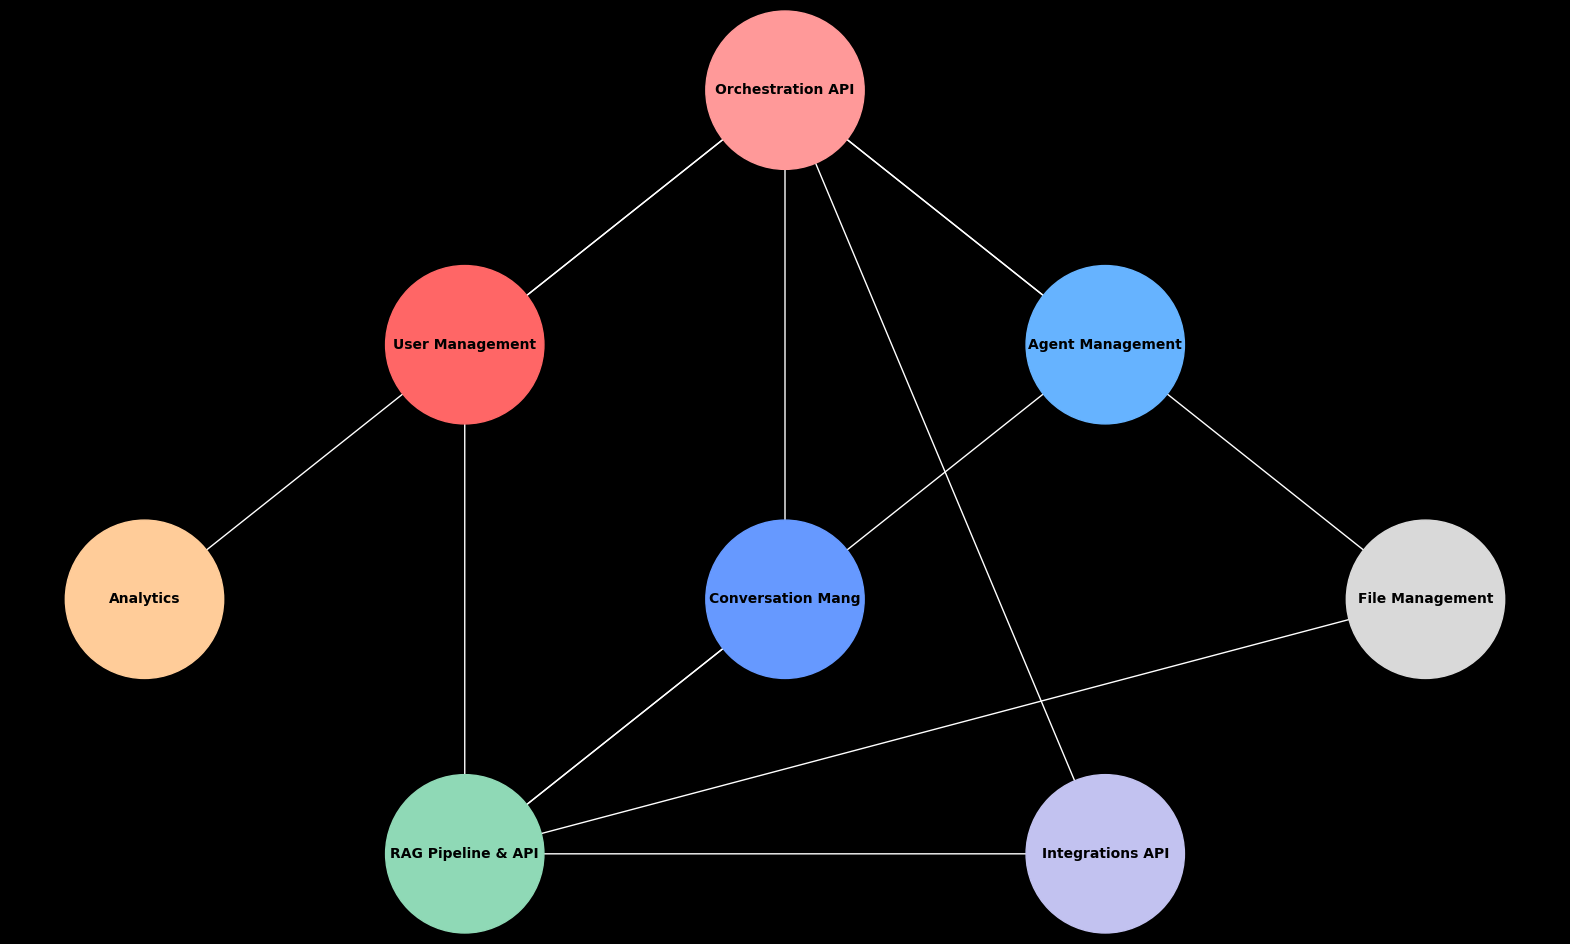
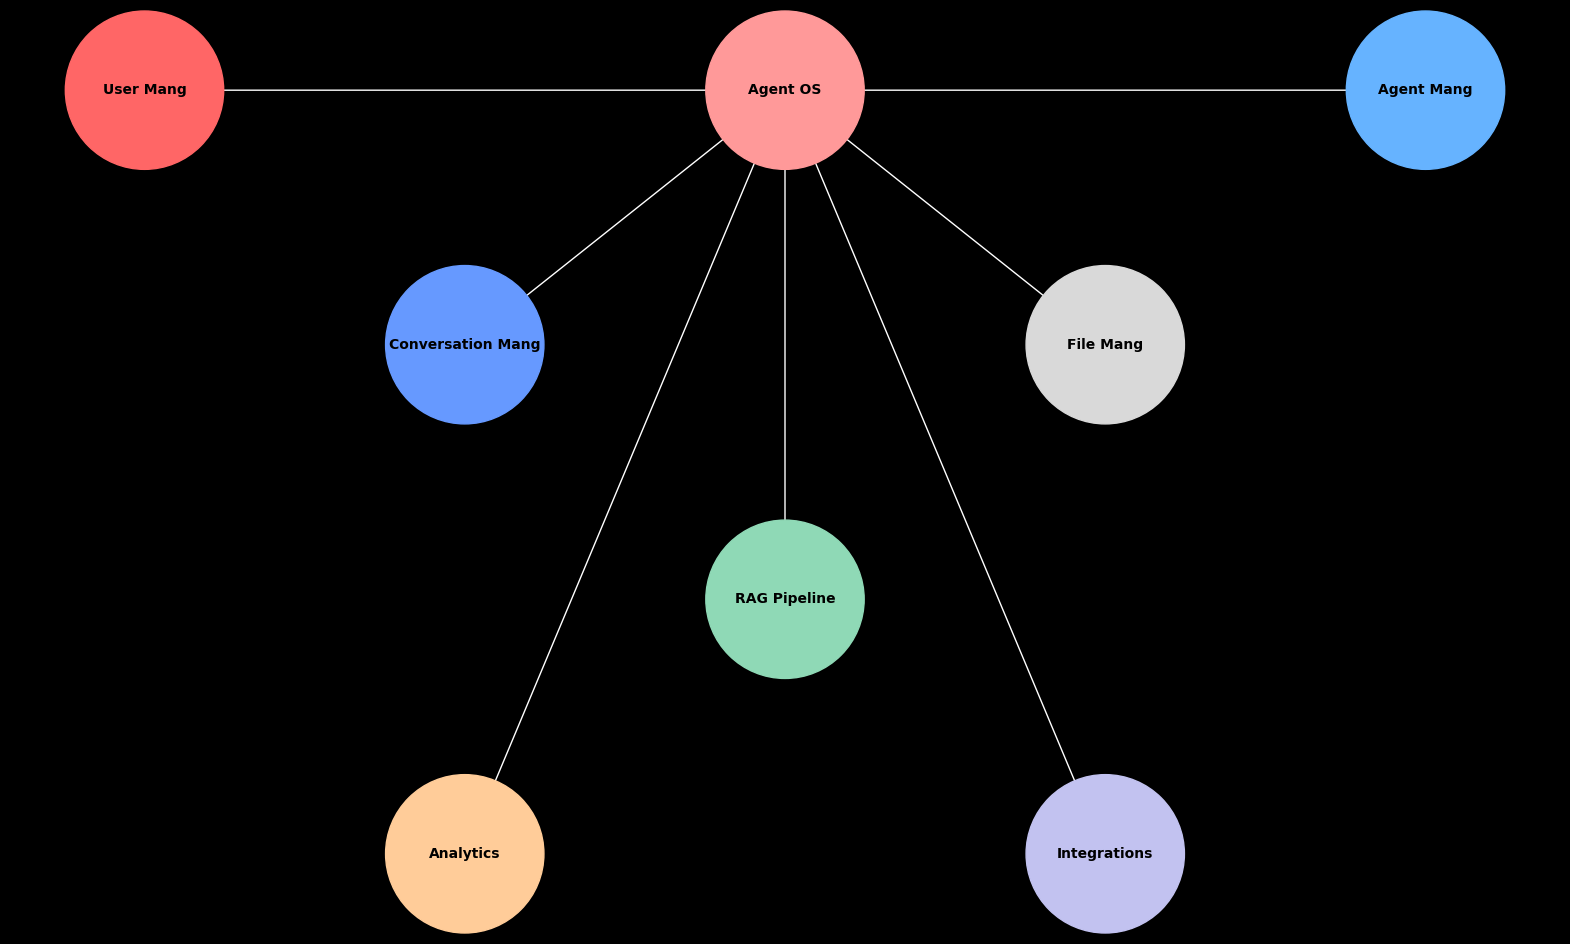
Updated core components diagram

diff --git a/scripts/architecture-core-components.py b/scripts/architecture-core-components.py
@@ -11,26 +11,26 @@ G = nx.DiGraph()
 
 # Define colors for different entity groupings
 colors = {
-    "Orchestration API": "#ff9999",
-    "User Management": "#ff6666",
-    "Agent Management": "#66b3ff",
+    "Agent OS": "#ff9999",
+    "User Mang": "#ff6666",
+    "Agent Mang": "#66b3ff",
     "Conversation Mang": "#6699ff",
+    "File Mang": "#d9d9d9",
+    "RAG Pipeline": "#8fd9b6",
+    "Integrations": "#c2c2f0",
     "Analytics": "#ffcc99",
-    "File Management": "#d9d9d9",
-    "RAG Pipeline & API": "#8fd9b6",
-    "Integrations API": "#c2c2f0"
 }
 
 # Add nodes with positions
 positions = {
-    "Orchestration API": (10, 8),
-    "User Management": (8, 6),
-    "Agent Management": (12, 6),
-    "Conversation Mang": (10, 4),
-    "Analytics": (6, 4),
-    "File Management": (14, 4),
-    "RAG Pipeline & API": (8, 2),
-    "Integrations API": (12, 2)
+    "Agent OS": (10, 8),
+    "User Mang": (6, 8),
+    "Agent Mang": (14, 8),
+    "Conversation Mang": (8, 6),
+    "RAG Pipeline": (10, 4),
+    "Integrations": (12, 2),
+    "File Mang": (12, 6),
+    "Analytics": (8, 2),
 }
 
 for node, pos in positions.items():
@@ -38,17 +38,13 @@ for node, pos in positions.items():
 
 # Add edges to represent relationships
 relationships = [
-    ("Orchestration API", "User Management"),
-    ("Orchestration API", "Agent Management"),
-    ("Orchestration API", "Conversation Mang"),
-    ("Orchestration API", "Analytics"),
-    ("Orchestration API", "File Management"),
-    ("User Management", "RAG Pipeline & API"),
-    ("Agent Management", "RAG Pipeline & API"),
-    ("Conversation Mang", "RAG Pipeline & API"),
-    ("File Management", "RAG Pipeline & API"),
-    ("Orchestration API", "Integrations API"),
-    ("RAG Pipeline & API", "Integrations API")
+    ("Agent OS", "User Mang"),
+    ("Agent OS", "Agent Mang"),
+    ("Agent OS", "Conversation Mang"),
+    ("Agent OS", "File Mang"),
+    ("Agent OS", "RAG Pipeline"),
+    ("Agent OS", "Integrations"),
+    ("Agent OS", "Analytics"),
 ]
 
 for source, target in relationships:
